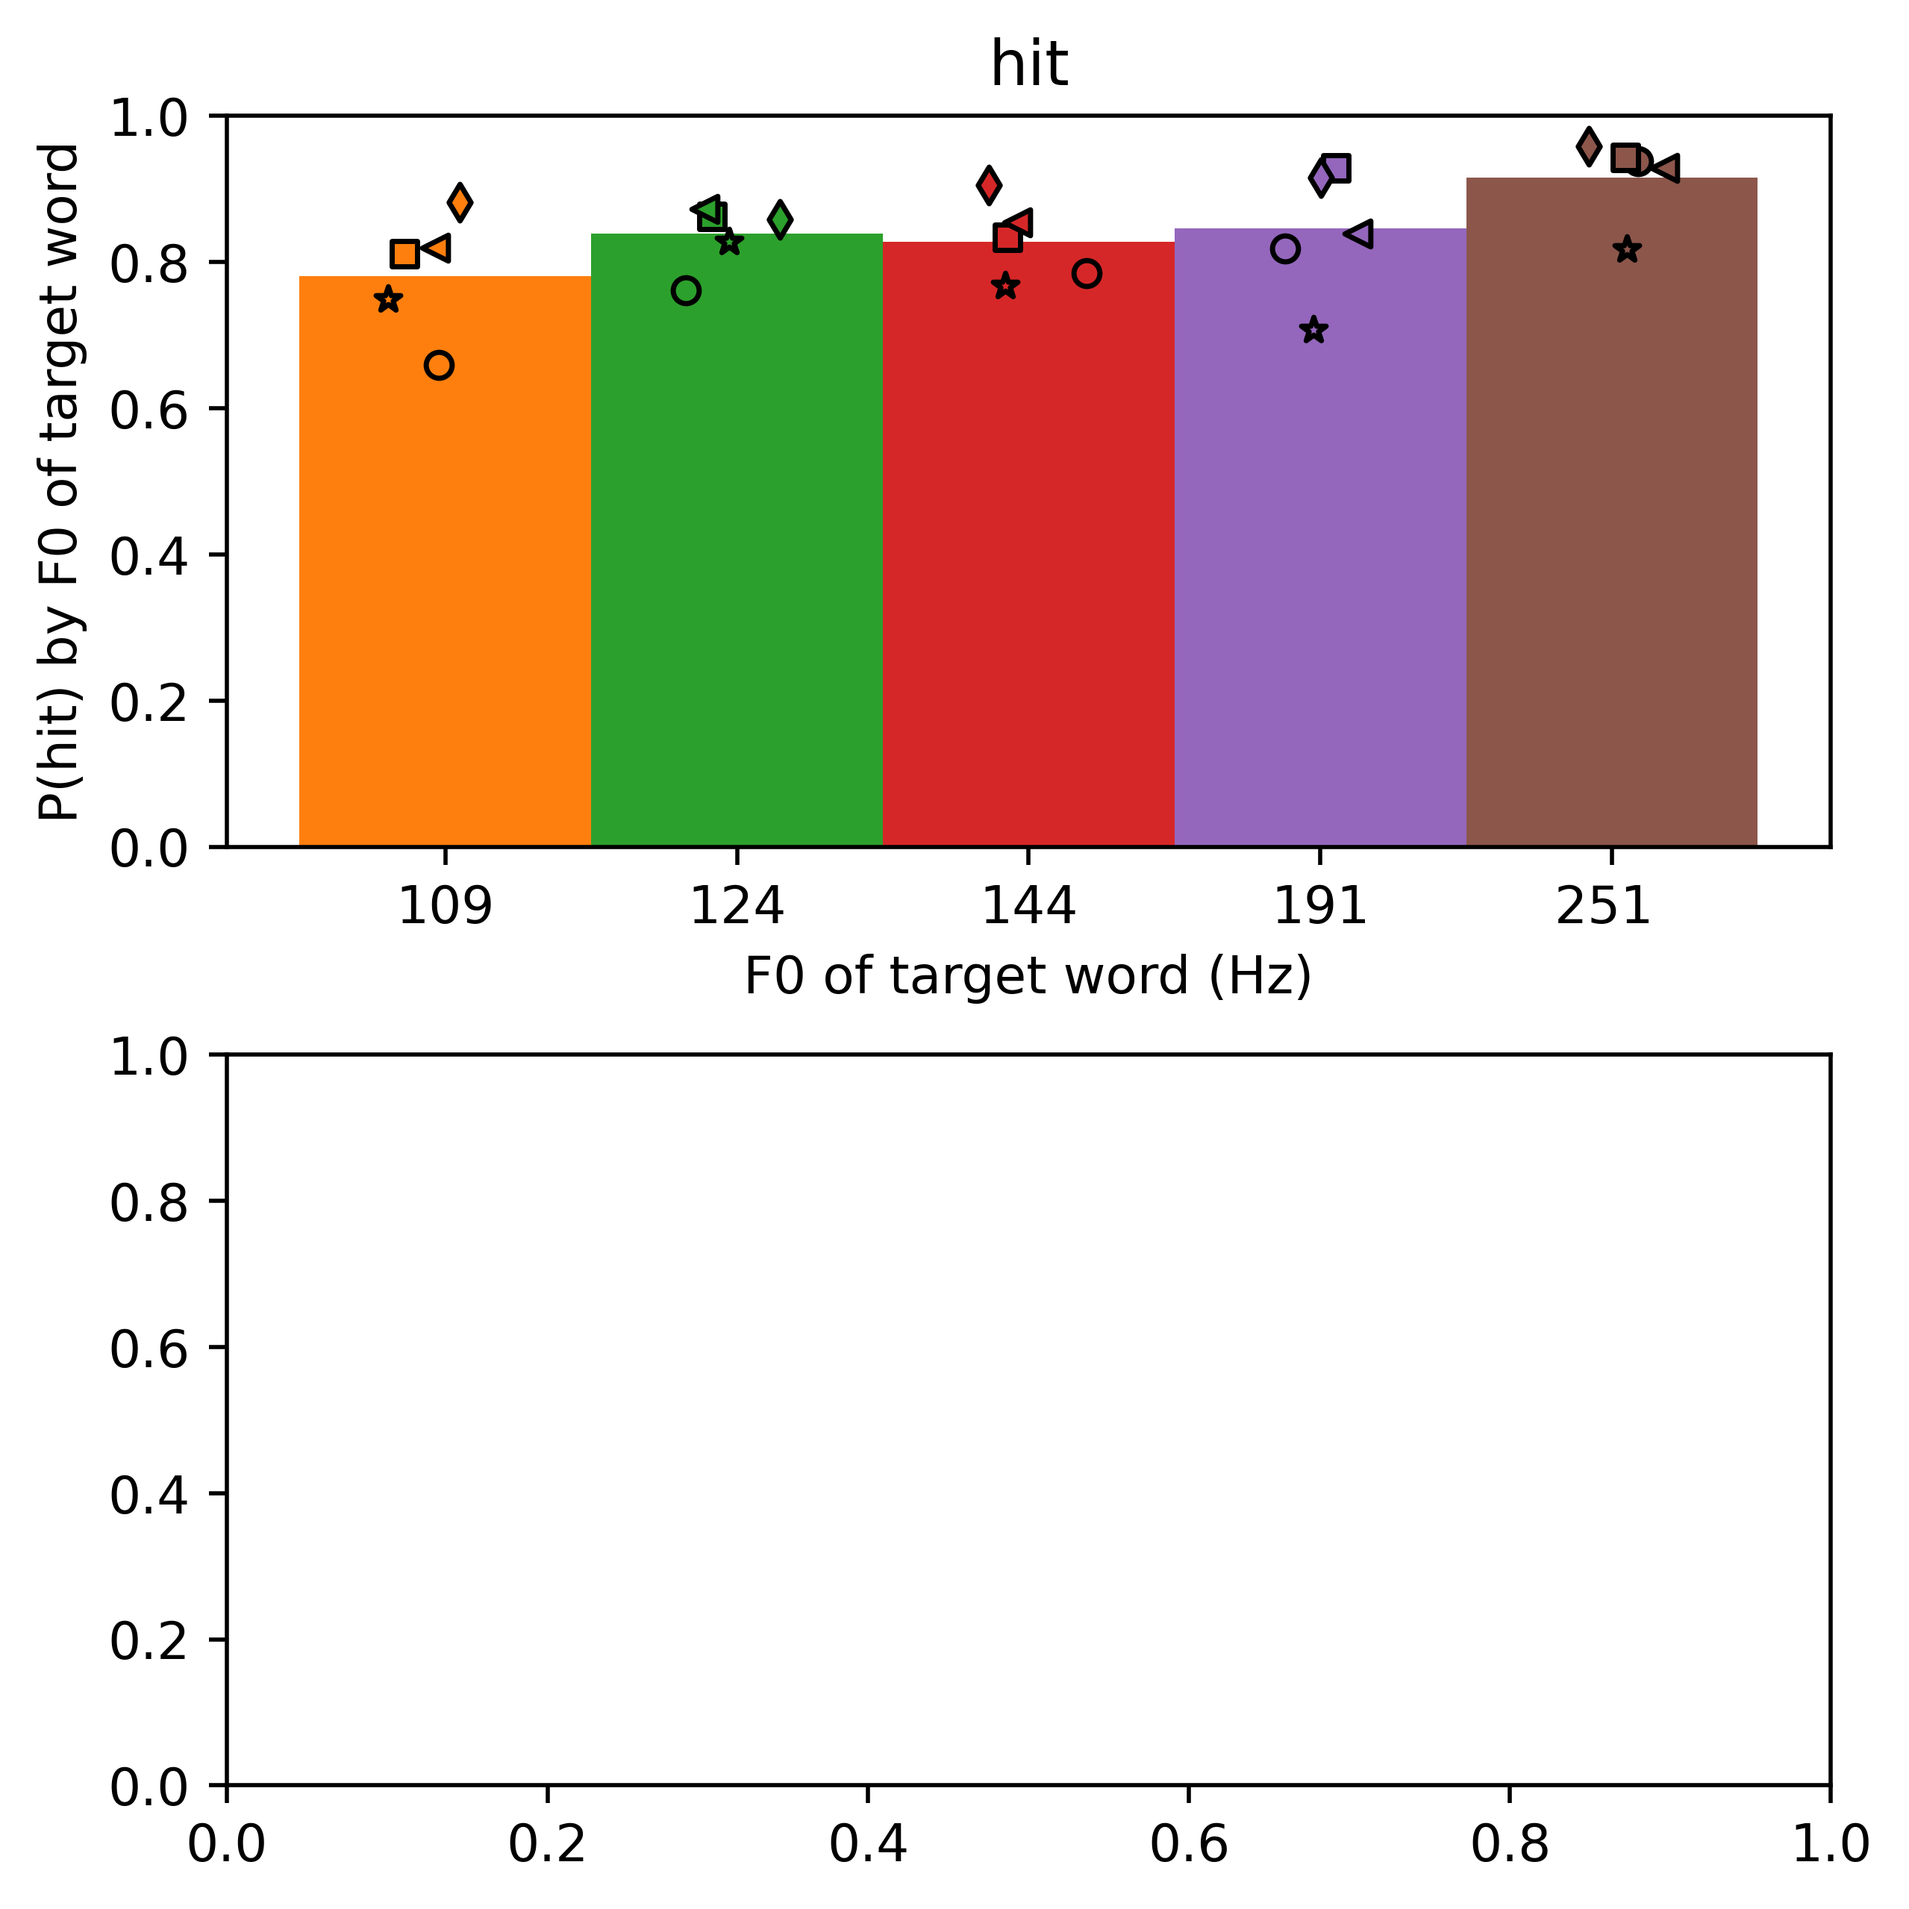
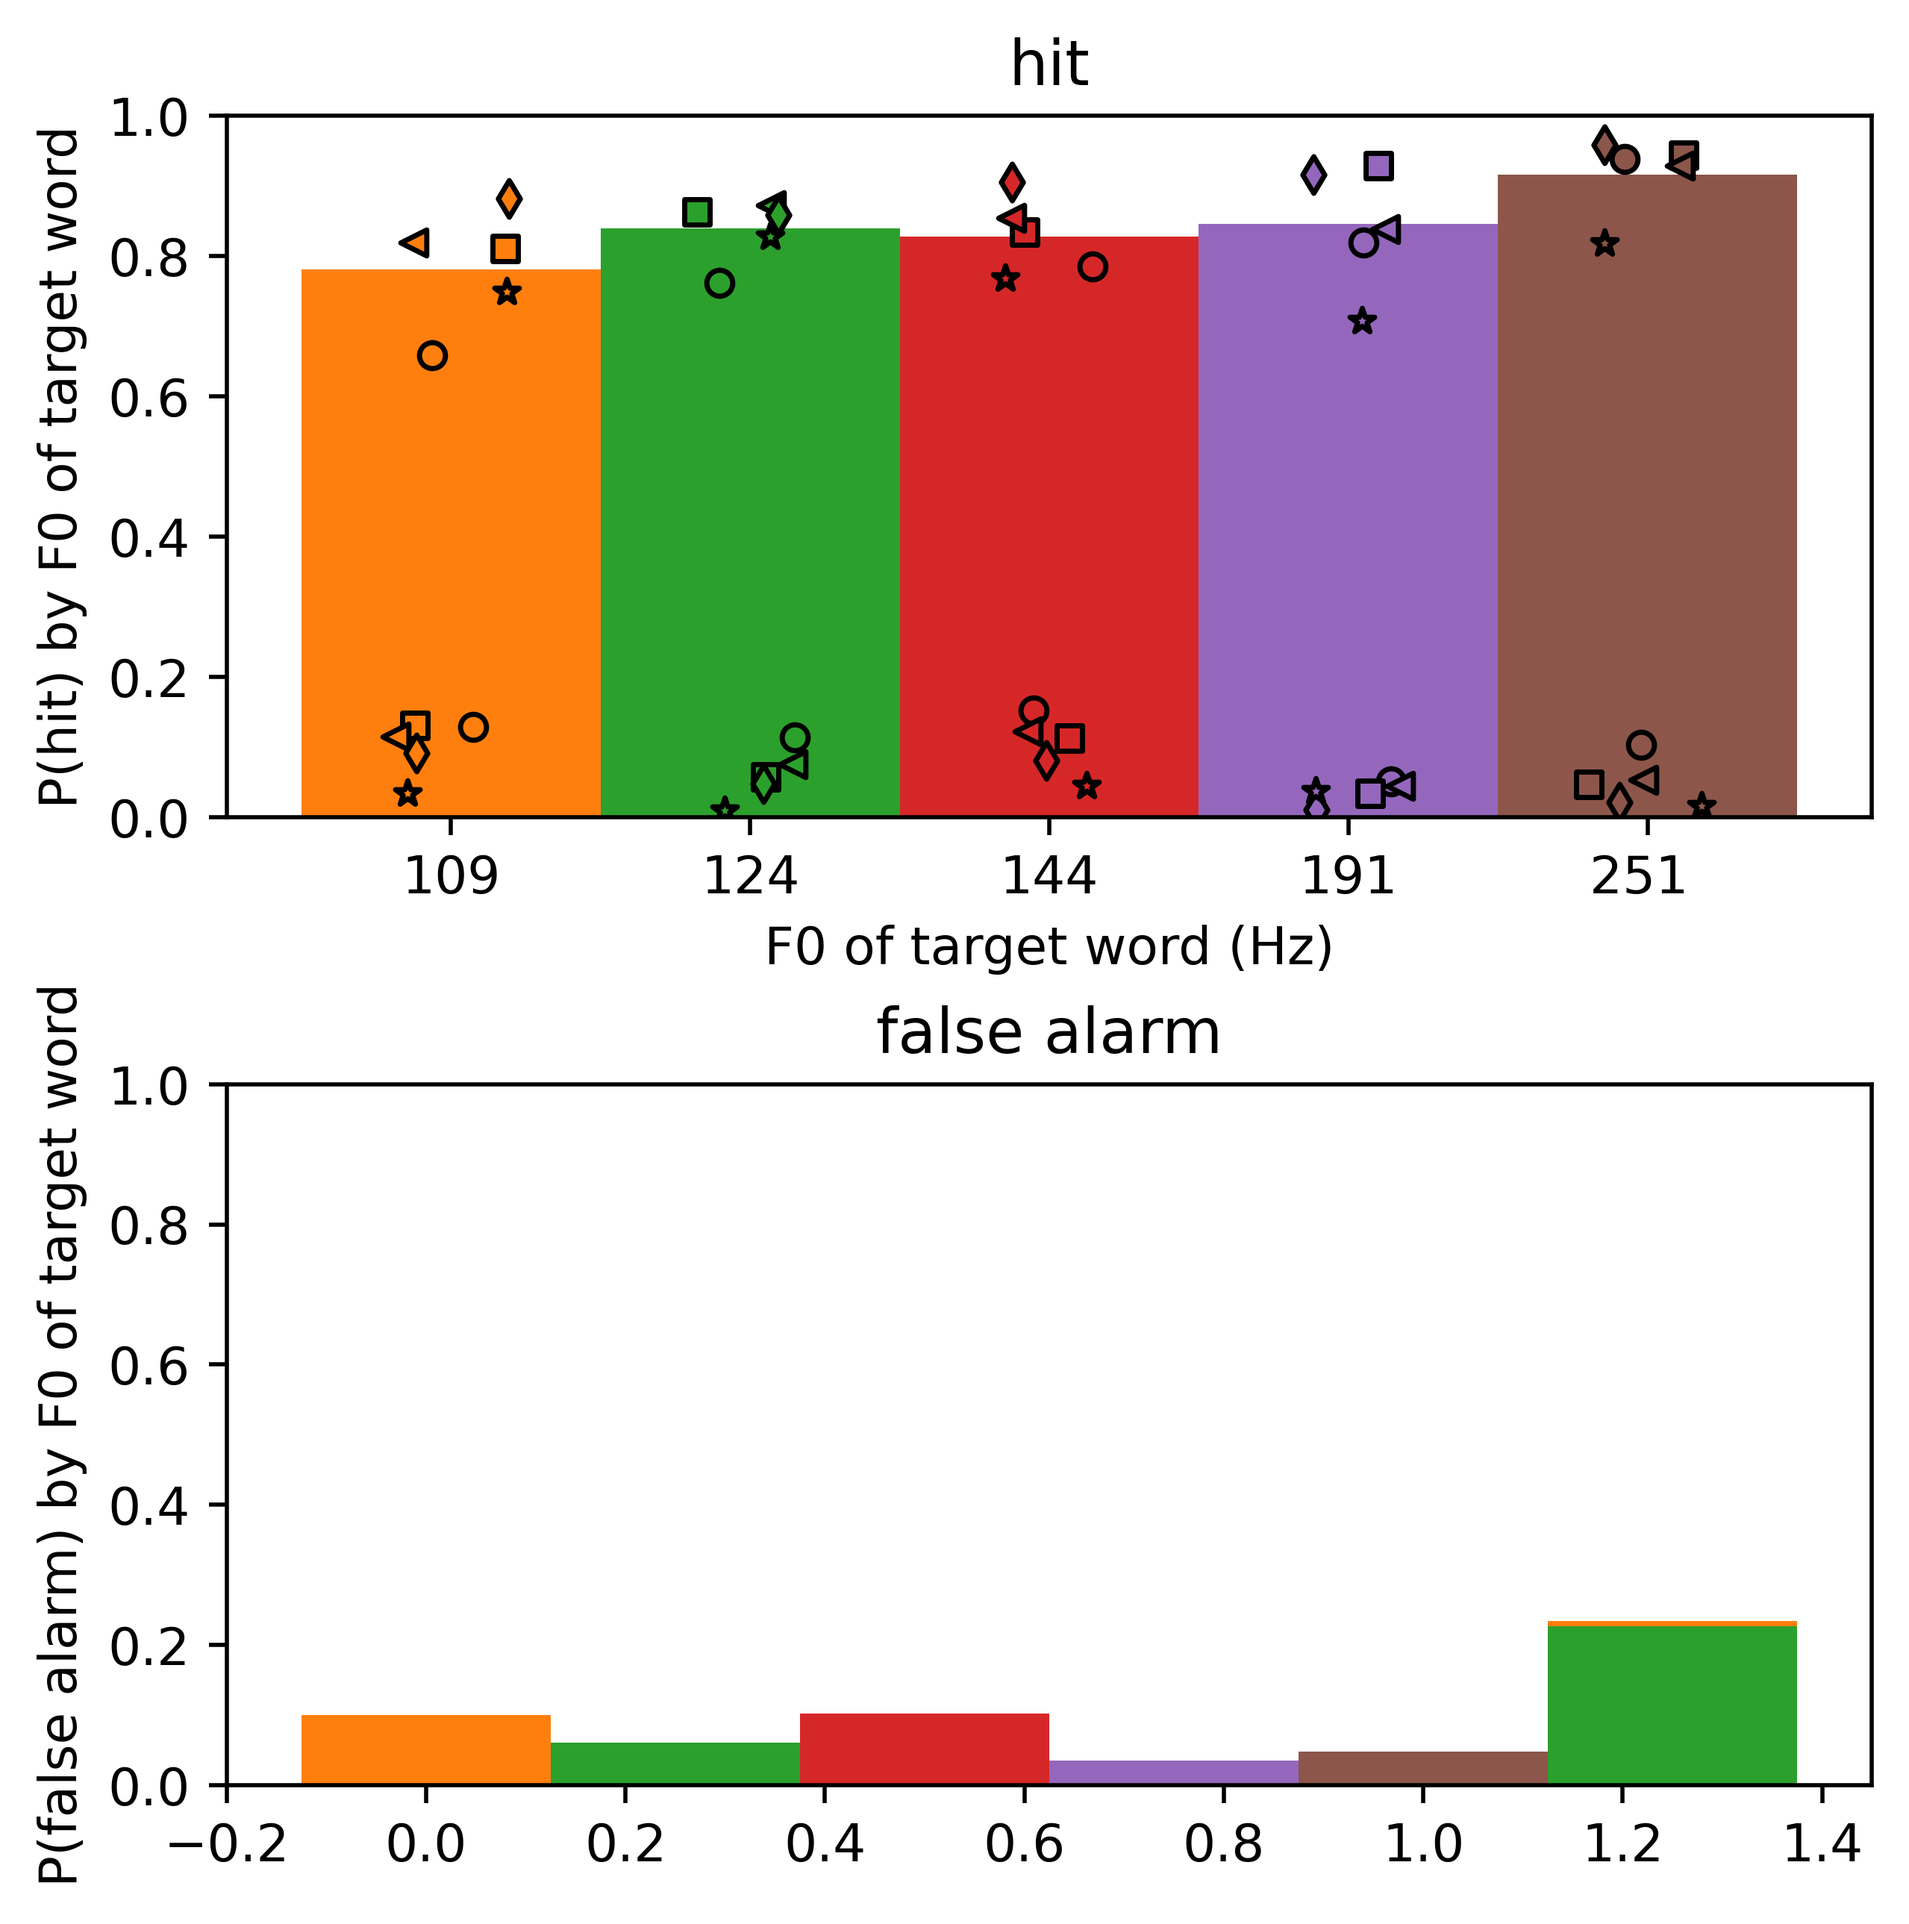
for the FA plots having 5 F0s and 1 intra trial roving x-tick

diff --git a/models/plotstatsacrossanimals.py b/models/plotstatsacrossanimals.py
@@ -568,14 +568,22 @@ def plot_stats_by_pitch(stats_dict_all_combined, stats_dict_combined, stats_dict
 
             multiplier += 1
     if multiplier>=5:
-        for attribute, measurement in stats_dict_all_intra.items():
 
-                offset = width * multiplier
-                # Add gap offset for the second series
+        offset = width * multiplier
+        # Add gap offset for the second series
 
-                color = color_map(attribute)
-                rects = ax2.bar(offset, measurement['intra_trial_roving']['false_alarms'], width, label='_nolegend_', color=color)
-
+        color = color_map(attribute)
+        for talker, measurement in stats_dict_all_intra.items():
+            rects = ax2.bar(offset, stats_dict_all_intra[talker]['intra_trial_roving']['false_alarms'], width, label='_nolegend_', color=color)
+            for ferret, ferret_data in stats_dict_intra[talker]['intra_trial_roving']['false_alarms'].items():
+                # add jitter to offset
+                print('ferret', ferret)
+                print('ferret data', ferret_data)
+                offset_jitter = offset + np.random.uniform(-0.05, 0.05)
+                ax1.scatter(offset_jitter, ferret_data, 25, color=color, marker=marker_list[count], label='_nolegend_',
+                            edgecolors='black')
+                count += 1
+            multiplier += 1
 
     ax2.set_ylim(0, 1)
     ax2.set_ylabel('P(false alarm) by F0 of target word')
